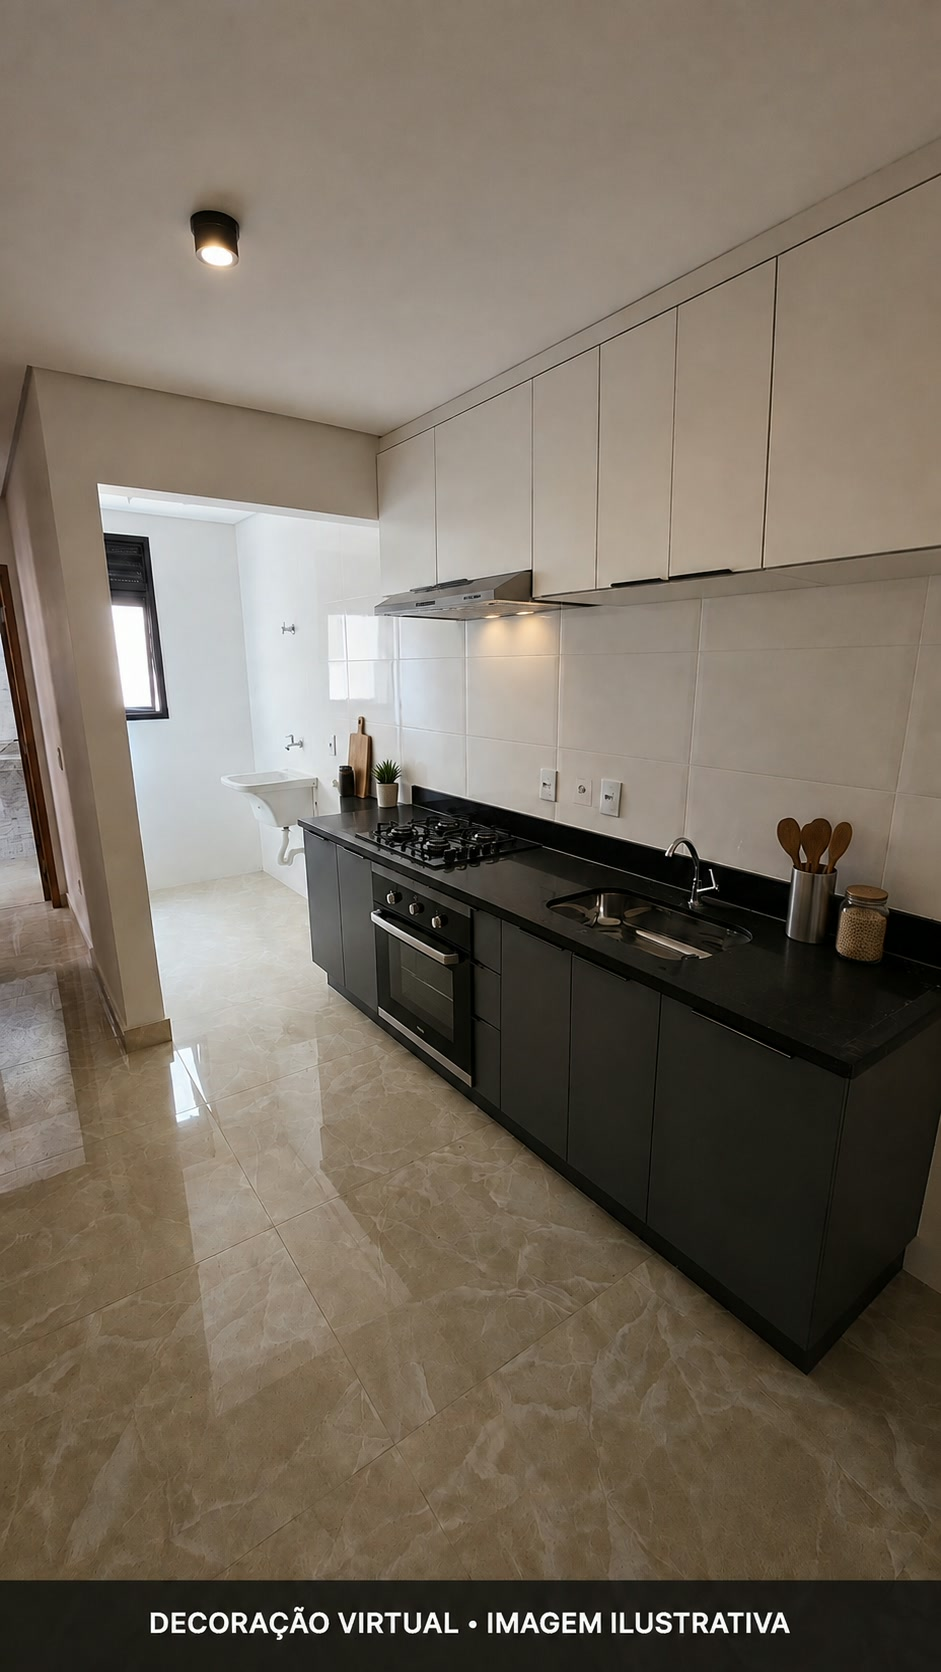
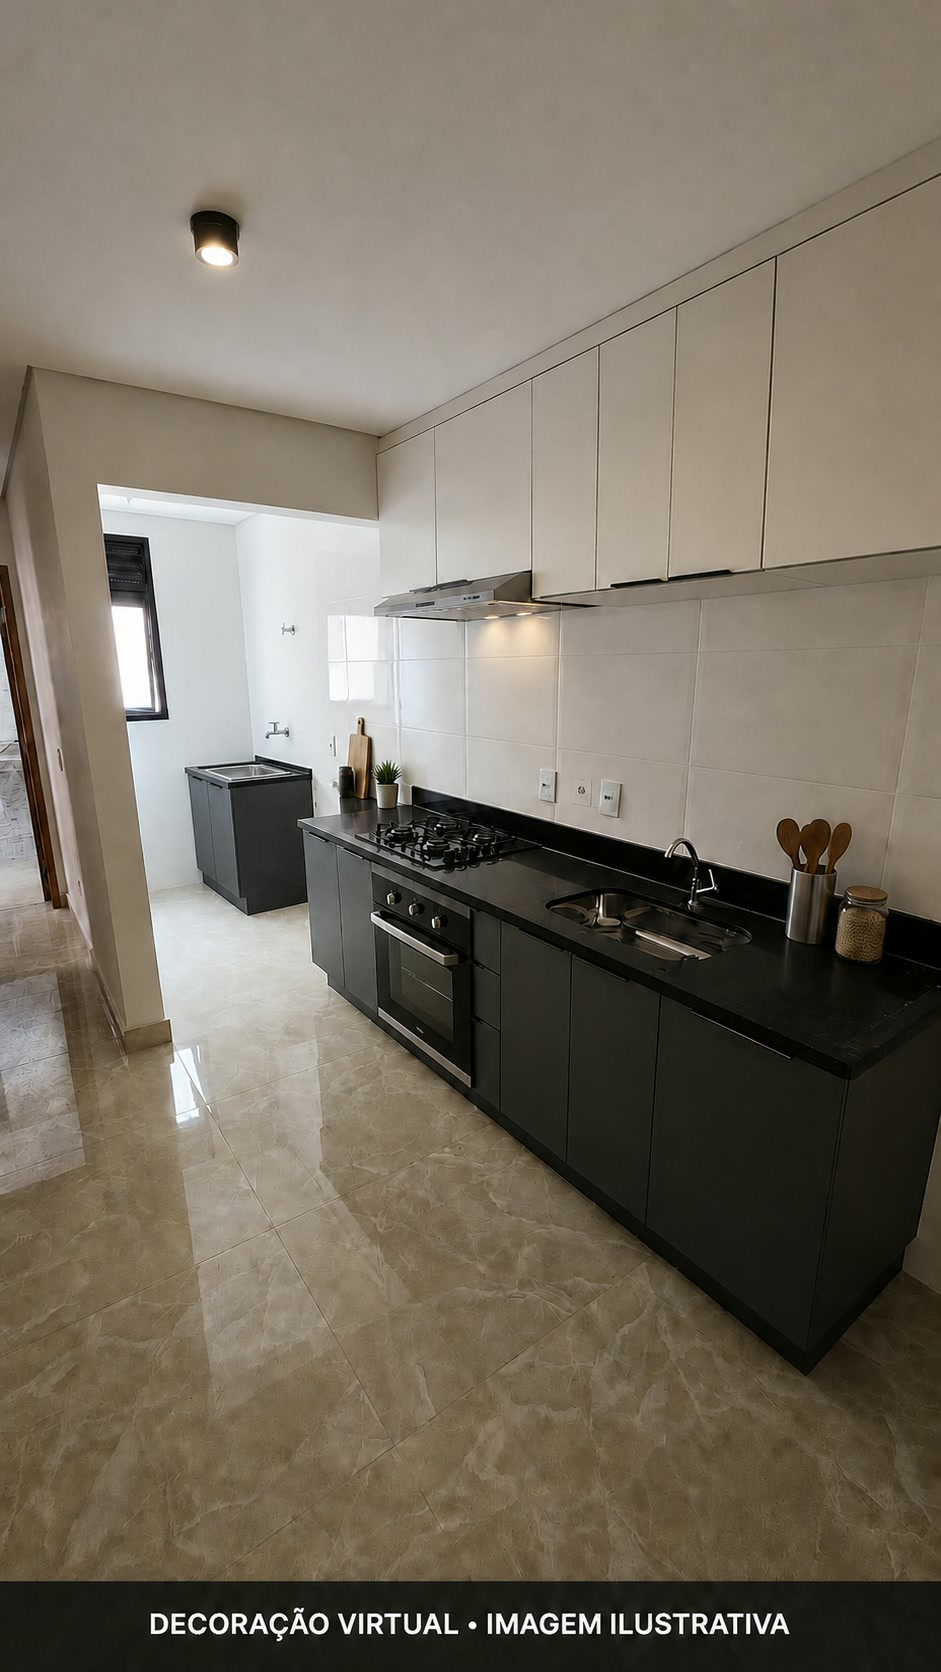
feat: add staged laundry cabinet

diff --git a/residencial-inglesa/index.html b/residencial-inglesa/index.html
@@ -148,11 +148,11 @@
     </section>
 
     <section class="gallery" aria-label="Simulações dos ambientes do Residencial Inglesa">
-      <figure class="gallery-featured"><picture><source type="image/webp" srcset="../assets/residencial-inglesa-cozinha-frontal-640.webp 640w, ../assets/residencial-inglesa-cozinha-frontal.webp 941w" sizes="(max-width: 820px) 100vw, 58vw"><img src="../assets/residencial-inglesa-cozinha-frontal.jpg" alt="Simulação da cozinha planejada com geladeira, cooktop, forno e coifa" width="941" height="1672" loading="lazy"></picture><figcaption>Cozinha planejada com eletrodomésticos</figcaption></figure>
+      <figure class="gallery-featured"><picture><source type="image/webp" srcset="../assets/residencial-inglesa-cozinha-frontal-640.webp 640w, ../assets/residencial-inglesa-cozinha-frontal.webp 941w" sizes="(max-width: 820px) 100vw, 58vw"><img src="../assets/residencial-inglesa-cozinha-frontal.jpg" alt="Simulação da cozinha planejada com eletrodomésticos e lavanderia com gabinete e cuba metálica" width="941" height="1672" loading="lazy"></picture><figcaption>Cozinha equipada e lavanderia planejada</figcaption></figure>
       <figure class="gallery-bedroom"><picture><source type="image/webp" srcset="../assets/residencial-inglesa-quarto-casal-640.webp 640w, ../assets/residencial-inglesa-quarto-casal.webp 941w" sizes="(max-width: 820px) 100vw, 42vw"><img src="../assets/residencial-inglesa-quarto-casal.jpg" alt="Simulação do dormitório de casal com guarda-roupa de portas deslizantes" width="941" height="1672" loading="lazy"></picture><figcaption>Dormitório de casal com guarda-roupa</figcaption></figure>
       <figure class="gallery-bedroom-two"><picture><source type="image/webp" srcset="../assets/residencial-inglesa-quarto-dois-640.webp 640w, ../assets/residencial-inglesa-quarto-dois.webp 941w" sizes="(max-width: 820px) 100vw, 42vw"><img src="../assets/residencial-inglesa-quarto-dois.jpg" alt="Simulação do segundo dormitório com guarda-roupa de portas deslizantes" width="941" height="1672" loading="lazy"></picture><figcaption>Segundo dormitório com guarda-roupa</figcaption></figure>
       <figure class="gallery-portrait"><picture><source type="image/webp" srcset="../assets/residencial-inglesa-banheiro-640.webp 640w, ../assets/residencial-inglesa-banheiro.webp 941w" sizes="(max-width: 820px) 100vw, 33vw"><img src="../assets/residencial-inglesa-banheiro.jpg" alt="Simulação do banheiro com box de vidro, gabinete e chuveiro" width="941" height="1672" loading="lazy"></picture><figcaption>Banheiro com box, gabinete e chuveiro</figcaption></figure>
-      <figure class="gallery-portrait"><picture><source type="image/webp" srcset="../assets/residencial-inglesa-cozinha-bancada-640.webp 640w, ../assets/residencial-inglesa-cozinha-bancada.webp 941w" sizes="(max-width: 820px) 100vw, 33vw"><img src="../assets/residencial-inglesa-cozinha-bancada.jpg" alt="Simulação da cozinha vista pela bancada com cooktop, forno e coifa" width="941" height="1672" loading="lazy"></picture><figcaption>Cooktop, forno e coifa</figcaption></figure>
+      <figure class="gallery-portrait"><picture><source type="image/webp" srcset="../assets/residencial-inglesa-cozinha-bancada-640.webp 640w, ../assets/residencial-inglesa-cozinha-bancada.webp 941w" sizes="(max-width: 820px) 100vw, 33vw"><img src="../assets/residencial-inglesa-cozinha-bancada.jpg" alt="Simulação da cozinha com cooktop, forno e coifa, além do gabinete do tanque com cuba metálica" width="941" height="1672" loading="lazy"></picture><figcaption>Cooktop, forno, coifa e lavanderia planejada</figcaption></figure>
       <figure class="gallery-portrait"><picture><source type="image/webp" srcset="../assets/residencial-inglesa-area-integrada-640.webp 640w, ../assets/residencial-inglesa-area-integrada.webp 941w" sizes="(max-width: 820px) 100vw, 33vw"><img src="../assets/residencial-inglesa-area-integrada.jpg" alt="Simulação da área integrada com cozinha equipada" width="941" height="1672" loading="lazy"></picture><figcaption>Integração com cozinha equipada</figcaption></figure>
       <figure class="gallery-facade"><picture><source type="image/webp" srcset="../assets/residencial-inglesa-sala-640.webp 640w, ../assets/residencial-inglesa-sala.webp 941w" sizes="100vw"><img src="../assets/residencial-inglesa-sala.jpg" alt="Simulação de decoração da sala com saída para a sacada" width="941" height="1672" loading="lazy"></picture><figcaption>Sala com saída para a sacada</figcaption></figure>
     </section>
